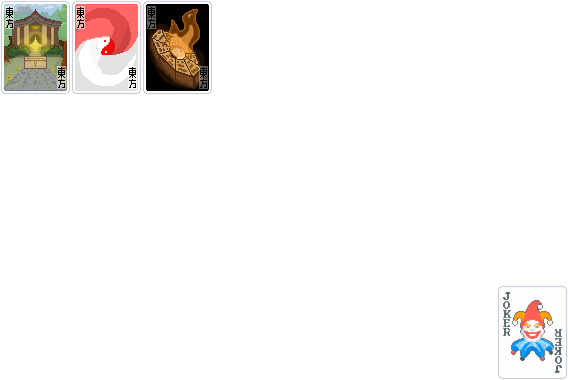
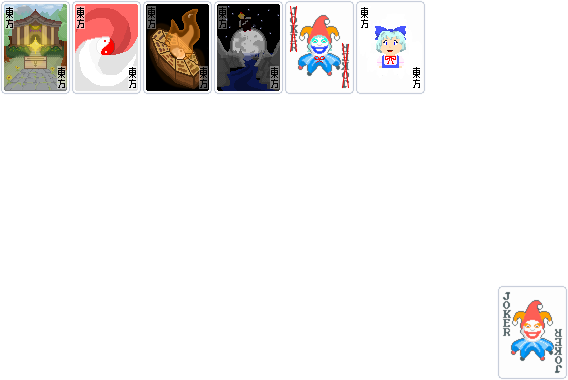
Alpha-1.1 Update
Added Icon for the Mod
Added three new jokers: Midnight Bird, Baka, and TEH STRONGEST JIMBO
Updated README

Changed region(s): [[0.3592, 0.0, 0.6585, 0.2605], [0.6585, 0.0579, 0.7482, 0.2605], [0.7183, 0.0, 0.7482, 0.0289]]

diff --git a/README.md b/README.md
@@ -1,7 +1,7 @@
 # Komakusa-Cards
 Balatro Mod that adds Jokers and Cards themed around the Touhou Project
 
-For 1.0.0 Steammodded
+For 1.0.1 Steammodded
  
 For suggestions for jokers and new content please use the issues page on the github (https://github.com/AvilionAMillion/Komakusa-Cards) rather than directly messaging me or elsewise.
 
